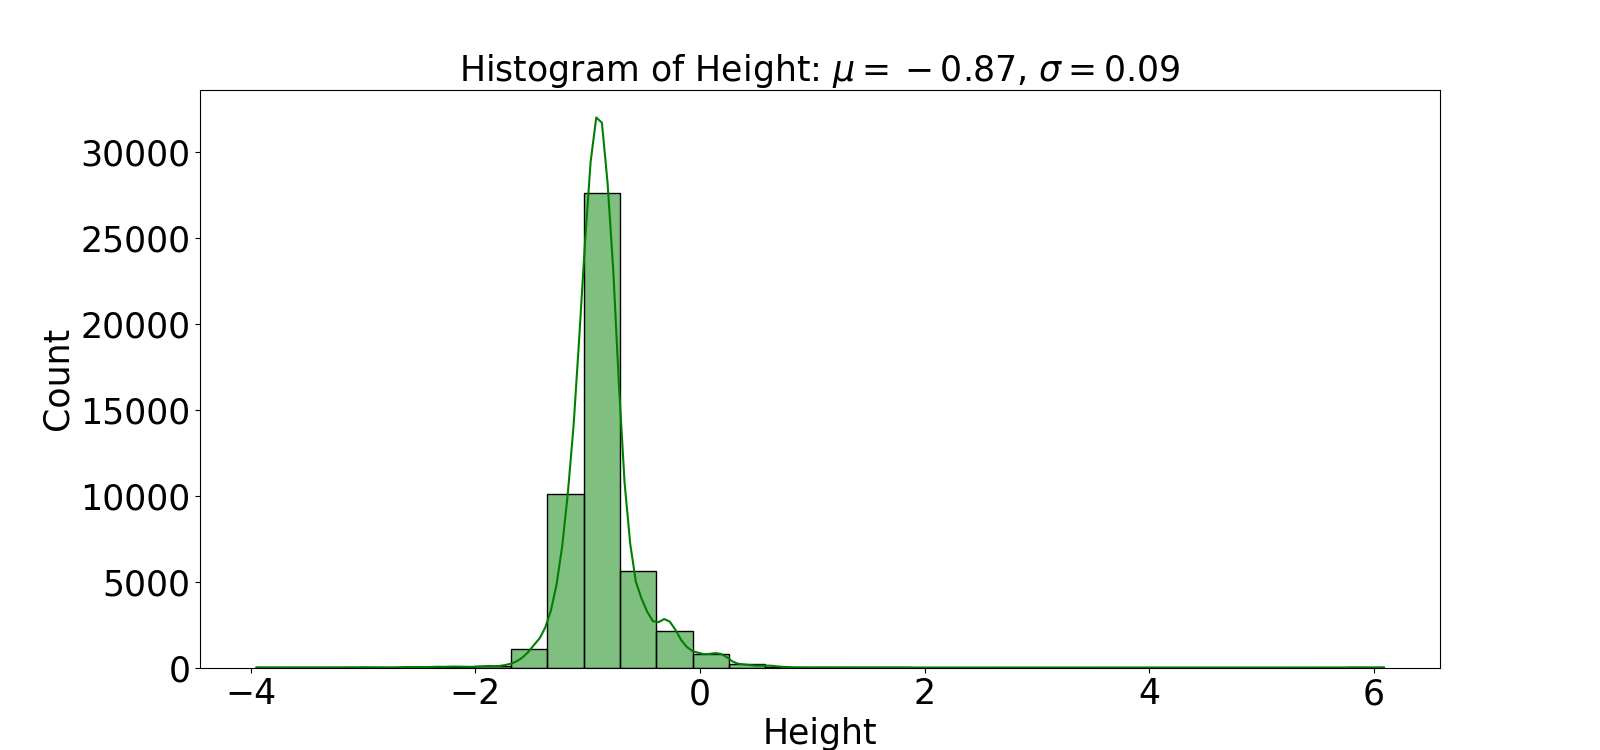
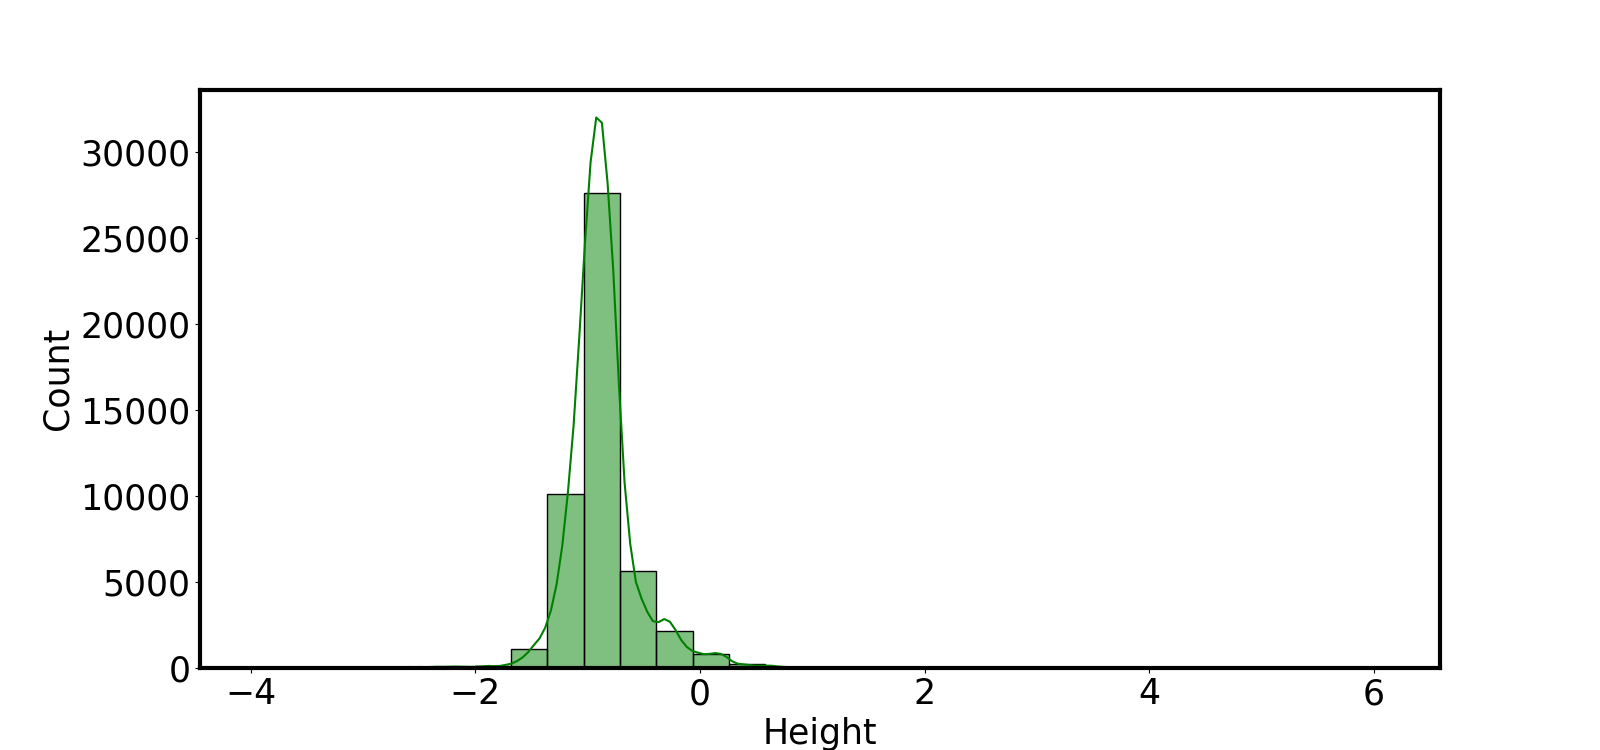
For paper graph

Changed region(s): [[0.125, 0.0613, 0.9062, 0.1227]]

diff --git a/scripts/gen_info_dair.py b/scripts/gen_info_dair.py
@@ -114,6 +114,33 @@ def get_denorm(rotation_matrix, translation):
     
     return denorm
 
+def degree2rad(degree):
+    return degree * np.pi / 180
+
+def sample_intrin_extrin_augmentation(sweepego2sweepsensor, roll_range=[0.0, 2.67], pitch_range=[0.0, 2.67]):
+        # rectify sweepego2sweepsensor by roll
+        # roll = np.random.normal(roll_range[0], roll_range[1])
+        # roll = np.random.normal(roll_range[0], roll_range[1])
+        roll = np.random.uniform(-5.0, 5.0)
+        roll_rad = degree2rad(roll)
+        rectify_roll = np.array([[math.cos(roll_rad), -math.sin(roll_rad), 0, 0], 
+                                 [math.sin(roll_rad), math.cos(roll_rad), 0, 0], 
+                                 [0, 0, 1, 0],
+                                 [0, 0, 0, 1]])
+        sweepego2sweepsensor_rectify_roll = np.matmul(rectify_roll, sweepego2sweepsensor)
+        
+        # rectify sweepego2sweepsensor by pitch
+        # pitch = np.random.normal(pitch_range[0], pitch_range[1])
+        pitch = np.random.uniform(-5.0, 5.0)
+        pitch_rad = degree2rad(pitch)
+        rectify_pitch = np.array([[1, 0, 0, 0],
+                                  [0,math.cos(pitch_rad), -math.sin(pitch_rad), 0], 
+                                  [0,math.sin(pitch_rad), math.cos(pitch_rad), 0],
+                                  [0, 0, 0, 1]])
+        sweepego2sweepsensor_rectify_pitch = np.matmul(rectify_pitch, sweepego2sweepsensor_rectify_roll)
+        return sweepego2sweepsensor_rectify_pitch
+
+
 def generate_info_dair(dair_root, split):    
     infos = mmcv.load("scripts/single-infrastructure-split-data.json")
     split_list = infos[split]
@@ -121,8 +148,7 @@ def generate_info_dair(dair_root, split):
     img_locs_list = list()
     ego_locs_list = list()
     
-    bbox_depth = dict()
-    bbox_height = dict()
+    bbox_depth, bbox_height = dict(), dict()
     bbox_depth_list = []
     for sample_id in tqdm(split_list):
         token = "image/" + sample_id + ".jpg"
@@ -185,16 +211,24 @@ def generate_info_dair(dair_root, split):
             loc = gt_box[:3]    # need to certify
             
             img_loc = np.matmul(Tr_velo2cam, np.array([[loc[0],loc[1],loc[2], 1]]).T)            
+            image_loc = np.matmul(camera_intrinsic, img_loc[:3,:])
+            image_loc = image_loc[:2,0] / image_loc[2,0]
+            
+            Tr_velo2cam_rectify = sample_intrin_extrin_augmentation(Tr_velo2cam)
+            img_loc_rectify = np.matmul(Tr_velo2cam_rectify, np.array([[loc[0],loc[1],loc[2], 1]]).T)   
+            image_loc_rectify = np.matmul(camera_intrinsic, img_loc_rectify[:3,:])
+            image_loc_rectify = image_loc_rectify[:2,0] / image_loc_rectify[2,0]
+            
             img_locs_list.append(img_loc[:3])
             ego_locs_list.append(loc[:,np.newaxis])
             
             if category_name == "car":
                 xmin, ymin, xmax, ymax = gt_bbox2d[idx]
                 area = (ymax - ymin) * (xmax - xmin)
-                if area > 15000 or loc[2] < -2.0 or len(bbox_depth[cam_key]) > 10000:
+                if area > 15000 or loc[2] < -2.0 or len(bbox_depth[cam_key]) > 20000:
                     continue
-                bbox_depth[cam_key].append([[area, img_loc[2,0]]])
-                bbox_height[cam_key].append([[area, loc[2]]])
+                bbox_depth[cam_key].append([[area, img_loc[2,0], image_loc[1], image_loc_rectify[1]]])
+                bbox_height[cam_key].append([[area, loc[2], image_loc[1], image_loc_rectify[1]]])
                 bbox_depth_list.append([[area, img_loc[2,0]]])
                 
             yaw_lidar = gt_box[6]
@@ -235,75 +269,158 @@ def generate_info_dair(dair_root, split):
     plt.tick_params(labelsize=20)
     plt.savefig('distribution.png')
     
+        
     print("depth mean & var: ", np.mean(img_locs_array[2, :]), np.var(img_locs_array[2, :]))
     print("height mean & var: ", np.mean(ego_locs_array[2, :]), np.var(ego_locs_array[2, :]))
-    
-    total_num = img_locs_array.shape[1]
-    hist, bins = np.histogram(img_locs_array[2,:], bins=10, range=[0,200], weights=None, density=False)
-    hist = hist / total_num
 
     plt.figure(figsize=(16, 7.5))
     x = img_locs_array[2,:]
     sns.set_palette("hls")
     sns.histplot(x, color="r",bins=31, kde=True, legend=True)    
-    plt.title(r'Histogram of Depth: $\mu=75.45$, $\sigma=1258.95$', fontsize=25)
+    # plt.title(r'$\mu=75.45$, $\sigma=1258.95$', fontsize=25)
     plt.xlabel('Depth', fontdict={'weight': 'normal', 'size': 25})
     plt.ylabel('Count', fontdict={'weight': 'normal', 'size': 25})
     plt.tick_params(labelsize=25)
+    ax = plt.gca()
+    bwith = 3
+    ax.spines['bottom'].set_linewidth(bwith)
+    ax.spines['left'].set_linewidth(bwith)
+    ax.spines['top'].set_linewidth(bwith)
+    ax.spines['right'].set_linewidth(bwith)   
     plt.savefig('depth_hist.png')
     
     plt.figure(figsize=(16, 7.5))
     x = ego_locs_array[2,:]
     sns.set_palette("hls") 
     sns.histplot(x, color="g", bins=31, kde=True, legend=True)
-    plt.title(r'Histogram of Height: $\mu=-0.87$, $\sigma=0.09$', fontsize=25)
+    # plt.title(r'$\mu=-0.87$, $\sigma=0.09$', fontsize=25)
     plt.xlabel('Height', fontdict={'weight': 'normal', 'size': 25})
     plt.ylabel('Count', fontdict={'weight': 'normal', 'size': 25})
     plt.tick_params(labelsize=25)
+    ax = plt.gca()
+    bwith = 3
+    ax.spines['bottom'].set_linewidth(bwith)
+    ax.spines['left'].set_linewidth(bwith)
+    ax.spines['top'].set_linewidth(bwith)
+    ax.spines['right'].set_linewidth(bwith)   
     plt.savefig('height_hist.png')
     
     scene1 = bbox_depth['-2.2854']
     scene1_array = np.concatenate(scene1, axis=0)
     
-    plt.figure(figsize=(9.0, 9.0))
+    plt.figure(figsize=(13.5, 11.5))
     plt.scatter(scene1_array[:, 0], 
                 scene1_array[:, 1],
                 c='lightcoral',
-                s=30,
+                s=50,
                 marker='x',
                 label = 'origin focal')
 
     plt.scatter(scene1_array[:, 0] * 0.5625,
                 scene1_array[:, 1],
                 c='royalblue',
-                s=30,
+                s=50,
+                alpha = 1.0,
                 label = '0.75 x focal')
-    plt.legend(fontsize=20)
-    plt.xlabel('area', fontdict={'weight': 'normal', 'size': 25})
-    plt.ylabel('depth (m)', fontdict={'weight': 'normal', 'size': 25})
-    plt.tick_params(labelsize=20)
+    plt.legend(fontsize=45, markerscale=2.0)
+    plt.xlabel('box area', fontdict={'weight': 'normal', 'size': 45})
+    plt.ylabel('depth (m)', fontdict={'weight': 'normal', 'size': 45})
+    plt.tick_params(labelsize=35)
+    
+    ax = plt.gca()
+    bwith = 3
+    ax.spines['bottom'].set_linewidth(bwith)
+    ax.spines['left'].set_linewidth(bwith)
+    ax.spines['top'].set_linewidth(bwith)
+    ax.spines['right'].set_linewidth(bwith)   
     plt.savefig('depth_area.png')
     
     scene1 = bbox_height['-2.2854']
     scene1_array = np.concatenate(scene1, axis=0)
-    plt.figure(figsize=(9.0, 9.0))
+    plt.figure(figsize=(13.5, 11.5))
     plt.scatter(scene1_array[:, 0], 
                 -1 * scene1_array[:, 1],
                 c='lightcoral',
-                s=30,
+                s=50,
                 marker='x',
                 label = 'origin focal')
 
     plt.scatter(scene1_array[:, 0] * 0.5625,
                 -1 * scene1_array[:, 1],
                 c='royalblue',
-                s=30,
+                s=50,
+                alpha = 1.0,
                 label = '0.75 x focal')
-    plt.legend(fontsize=20)
-    plt.xlabel('area', fontdict={'weight': 'normal', 'size': 25})
-    plt.ylabel('height (m)', fontdict={'weight': 'normal', 'size': 25})
-    plt.tick_params(labelsize=20)
+    plt.legend(fontsize=45, markerscale=2.0)
+    plt.xlabel('box area', fontdict={'weight': 'normal', 'size': 45})
+    plt.ylabel('height (m)', fontdict={'weight': 'normal', 'size': 45})
+    plt.tick_params(labelsize=35)
+    
+    ax = plt.gca()
+    ax.spines['bottom'].set_linewidth(bwith)
+    ax.spines['left'].set_linewidth(bwith)
+    ax.spines['top'].set_linewidth(bwith)
+    ax.spines['right'].set_linewidth(bwith)  
+    
     plt.savefig('height_area.png')
+    
+    ##################### depth ###########################
+    scene1 = bbox_depth['-2.2854']
+    scene1_array = np.concatenate(scene1, axis=0)
+    plt.figure(figsize=(13.5, 11.5))
+    plt.scatter(scene1_array[:, 2], 
+                scene1_array[:, 1],
+                c='lightcoral',
+                s=50,
+                marker='x',
+                label = 'Original')
+    
+    plt.scatter(scene1_array[:, 3],
+                scene1_array[:, 1],
+                c='royalblue',
+                s=50,
+                alpha = 1.0,
+                label = 'Noisy')
+    plt.legend(fontsize=45, markerscale=2.5)
+    plt.xlabel('v-coordinate of image', fontdict={'weight': 'normal', 'size': 45})
+    plt.ylabel('depth (m)', fontdict={'weight': 'normal', 'size': 45})
+    plt.tick_params(labelsize=35)
+    
+    ax = plt.gca()
+    ax.spines['bottom'].set_linewidth(bwith)
+    ax.spines['left'].set_linewidth(bwith)
+    ax.spines['top'].set_linewidth(bwith)
+    ax.spines['right'].set_linewidth(bwith)  
+    plt.savefig('depth_v.png')
+    
+    ##################### height ###########################
+    scene1 = bbox_height['-2.2854']
+    scene1_array = np.concatenate(scene1, axis=0)
+    plt.figure(figsize=(13.5, 11.5))
+    plt.scatter(scene1_array[:, 2], 
+                -1 * scene1_array[:, 1],
+                c='lightcoral',
+                s=50,
+                marker='x',
+                label = 'Original')
+    plt.scatter(scene1_array[:, 3],
+                -1 * scene1_array[:, 1],
+                c='royalblue',
+                s=50,
+                alpha = 1.0,
+                label = 'Noisy')
+    plt.legend(fontsize=45, markerscale=2.5)
+    plt.xlabel('v-coordinate of image', fontdict={'weight': 'normal', 'size': 45})
+    plt.ylabel('height (m)', fontdict={'weight': 'normal', 'size': 45})
+    plt.tick_params(labelsize=35)
+    
+    ax = plt.gca()
+    ax.spines['bottom'].set_linewidth(bwith)
+    ax.spines['left'].set_linewidth(bwith)
+    ax.spines['top'].set_linewidth(bwith)
+    ax.spines['right'].set_linewidth(bwith)  
+    
+    plt.savefig('height_v.png')
     
     return infos
 

diff --git a/scripts/gen_depth_gt_dair.py b/scripts/gen_depth_gt_dair.py
@@ -84,12 +84,12 @@ if __name__ == '__main__':
         img_poins = np.matmul(P, camera_points.T)
         img_poins = img_poins[:2, :] / img_poins[2, :]
         
-        img_shape, min_dist = (1080, 1920), 3
+        img_shape, min_dist = (1080, 1920), -1
         mask = np.ones(depths.shape[0], dtype=bool)
         mask = np.logical_and(mask, depths > min_dist)
-        mask = np.logical_and(mask, img_poins[0, :] > 1)
+        mask = np.logical_and(mask, img_poins[0, :] > 0)
         mask = np.logical_and(mask, img_poins[0, :] < img_shape[1] - 1)
-        mask = np.logical_and(mask, img_poins[1, :] > 1)
+        mask = np.logical_and(mask, img_poins[1, :] > 0)
         mask = np.logical_and(mask, img_poins[1, :] < img_shape[0] - 1)
         img_poins = img_poins[:, mask].astype(np.int32)
         depths = depths[mask]
@@ -105,26 +105,25 @@ if __name__ == '__main__':
         empty_img = np.zeros_like(img)
         
         virtual_height = -1 * virtual_height
-        virtual_height -= 8.0
+        # virtual_height -= 8.0
         virtual_height -= np.min(virtual_height)
+        virtual_height -= 20.8
+        print(np.min(virtual_height), np.max(virtual_height))
+
         for i in range(img_poins.shape[1]):
-            if depths[i] < 80:
-                depth_color = (255-3*depths[i], 0, 3*depths[i])
+            if virtual_height[i] < 0.0:
+                depth_color = (255 - 2 * virtual_height[i], 0, 70)
+            elif virtual_height[i] < 2.5:
+                depth_color = (0.0,  10 * virtual_height[i],  180 + 80*virtual_height[i])
             else:
-                depth_color = (255-3*depths[i], depths[i], 3*depths[i])
+                depth_color = (0.0,  30 * virtual_height[i],  150 + 80*virtual_height[i])
+
             
-            print(np.min(virtual_height), np.max(virtual_height))
-            if virtual_height[i] < 200:
-                depth_color = (255-10*virtual_height[i], 0, 5*virtual_height[i])
-            else:
-                depth_color = (255-5*virtual_height[i], 5*virtual_height[i], 5*virtual_height[i])
-            
-            height_color = virtual_height[i]
-            # img = cv2.circle(img, (img_poins[0,i], img_poins[1,i]), radius=2, color=depth_color, thickness=-1) 
-            # empty_img = cv2.circle(empty_img, (img_poins[0,i], img_poins[1,i]), radius=2, color=depth_color, thickness=-1) 
+            img = cv2.circle(img, (img_poins[0,i], img_poins[1,i]), radius=20, color=depth_color, thickness=-1) 
+            # empty_img = cv2.circle(empty_img, (img_poins[0,i], img_poins[1,i]), radius=8, color=depth_color, thickness=-1) 
 
         cv2.imwrite("demo.jpg", img)
-        cv2.imwrite("empty_demo.jpg", empty_img)
+        # cv2.imwrite("empty_demo.jpg", empty_img)
         
         break
 
